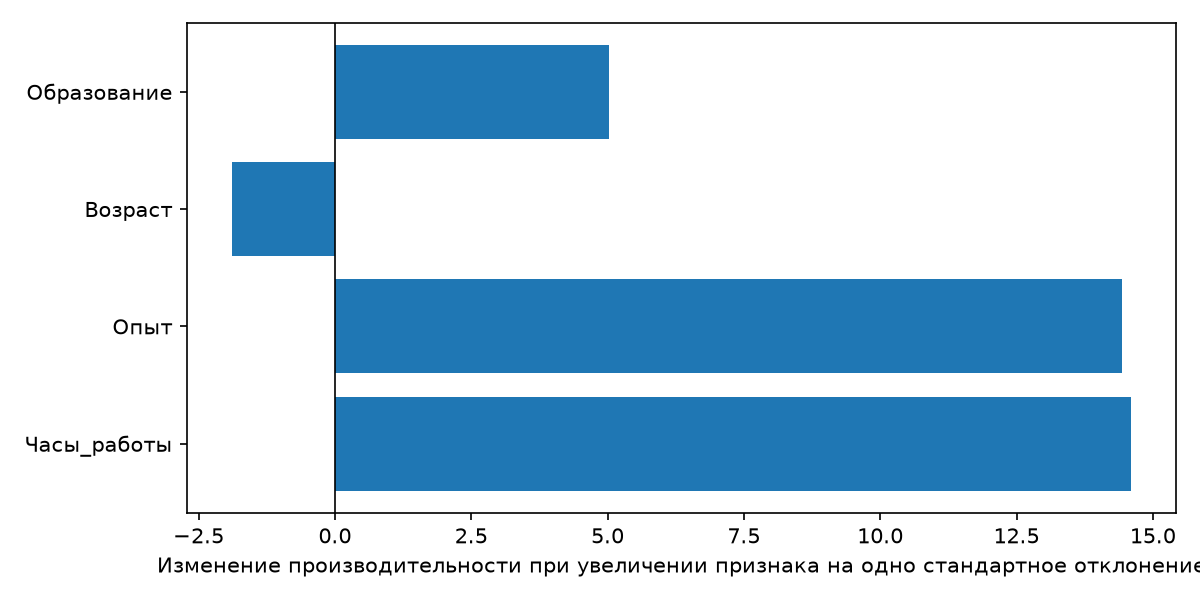
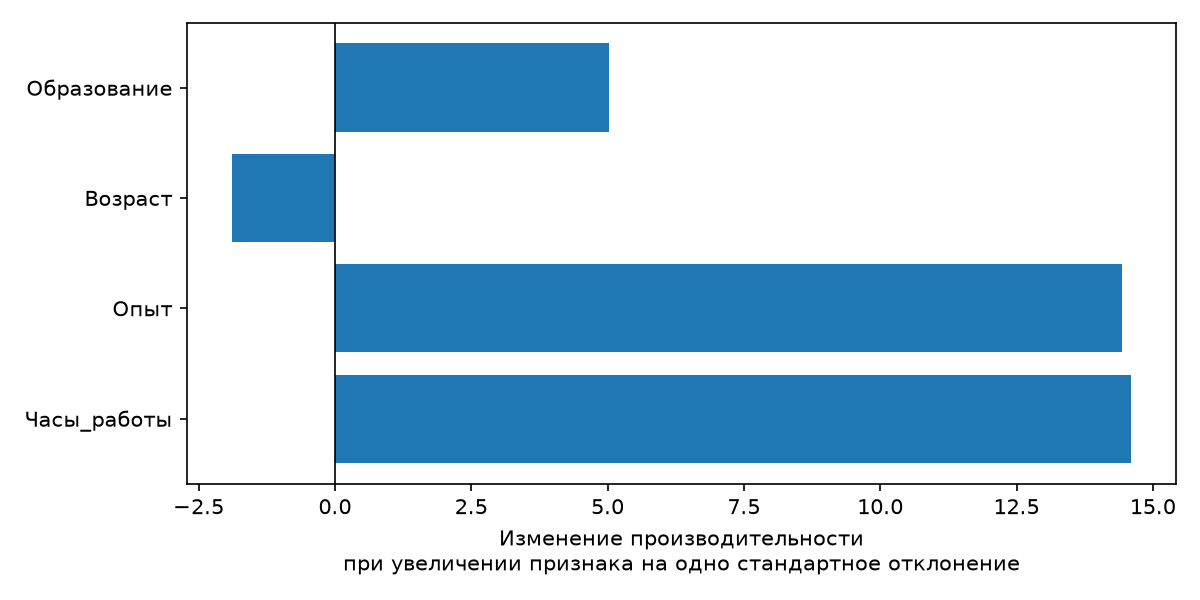
Fix clipped axis label in coefficient plot

diff --git a/employee_productivity.py b/employee_productivity.py
@@ -133,7 +133,7 @@ plt.close(fig)
 fig, ax = plt.subplots(figsize=(8, 4))
 ax.barh(X.columns, scaled_linear.coef_)
 ax.axvline(0, color="black", linewidth=0.8)
-ax.set_xlabel("Изменение производительности при увеличении признака на одно стандартное отклонение")
+ax.set_xlabel("Изменение производительности\nпри увеличении признака на одно стандартное отклонение")
 fig.tight_layout()
 fig.savefig(figures / "04_coefficients.png", dpi=150)
 plt.close(fig)
